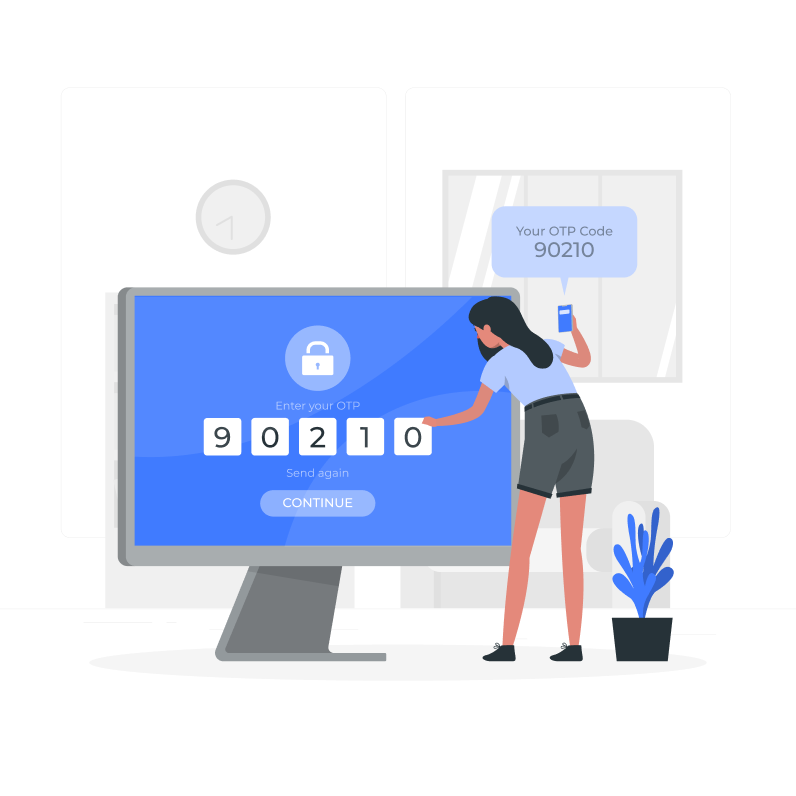
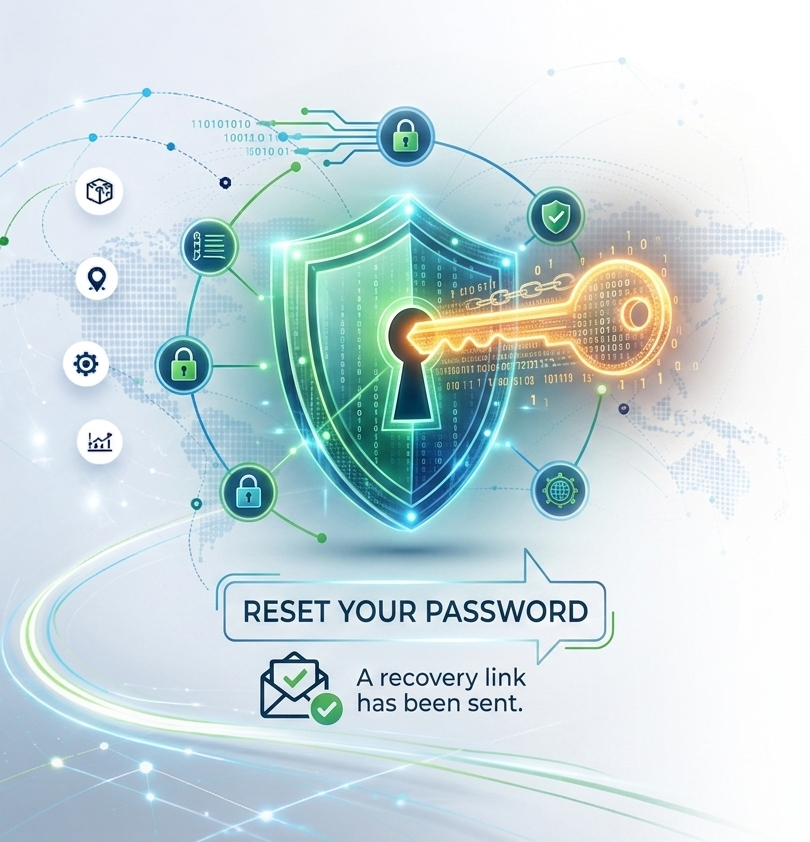
Forgot password page design correction

diff --git a/src/pages/auth/forgot-password/ForgotPassword.tsx b/src/pages/auth/forgot-password/ForgotPassword.tsx
@@ -56,7 +56,7 @@ const ForgotPassword = () => {
         <section className="bg-white dark:bg-slate-900 lg:flex flex-wrap min-h-[100vh]">
             <div className="lg:w-1/2 lg:block hidden">
                 <div className="flex items-center flex-col h-full justify-center">
-                    <img src={AuthImage} alt="Image" />
+                    <img src={AuthImage} alt="Image" className="object-cover h-full" />
                 </div>
             </div>
             <div className="lg:w-1/2 py-8 px-6 flex flex-col justify-center">
